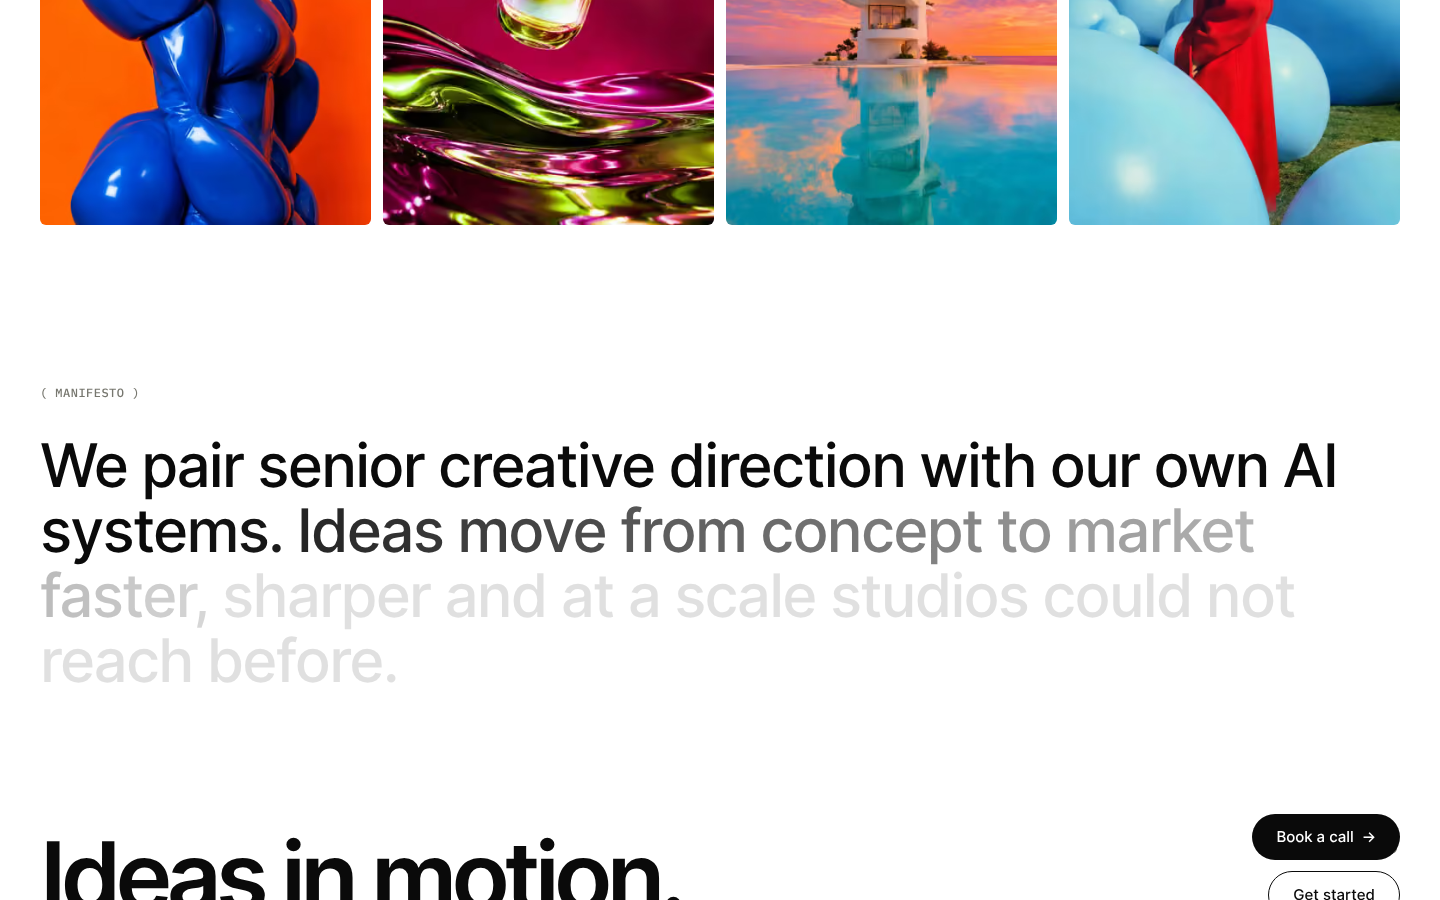
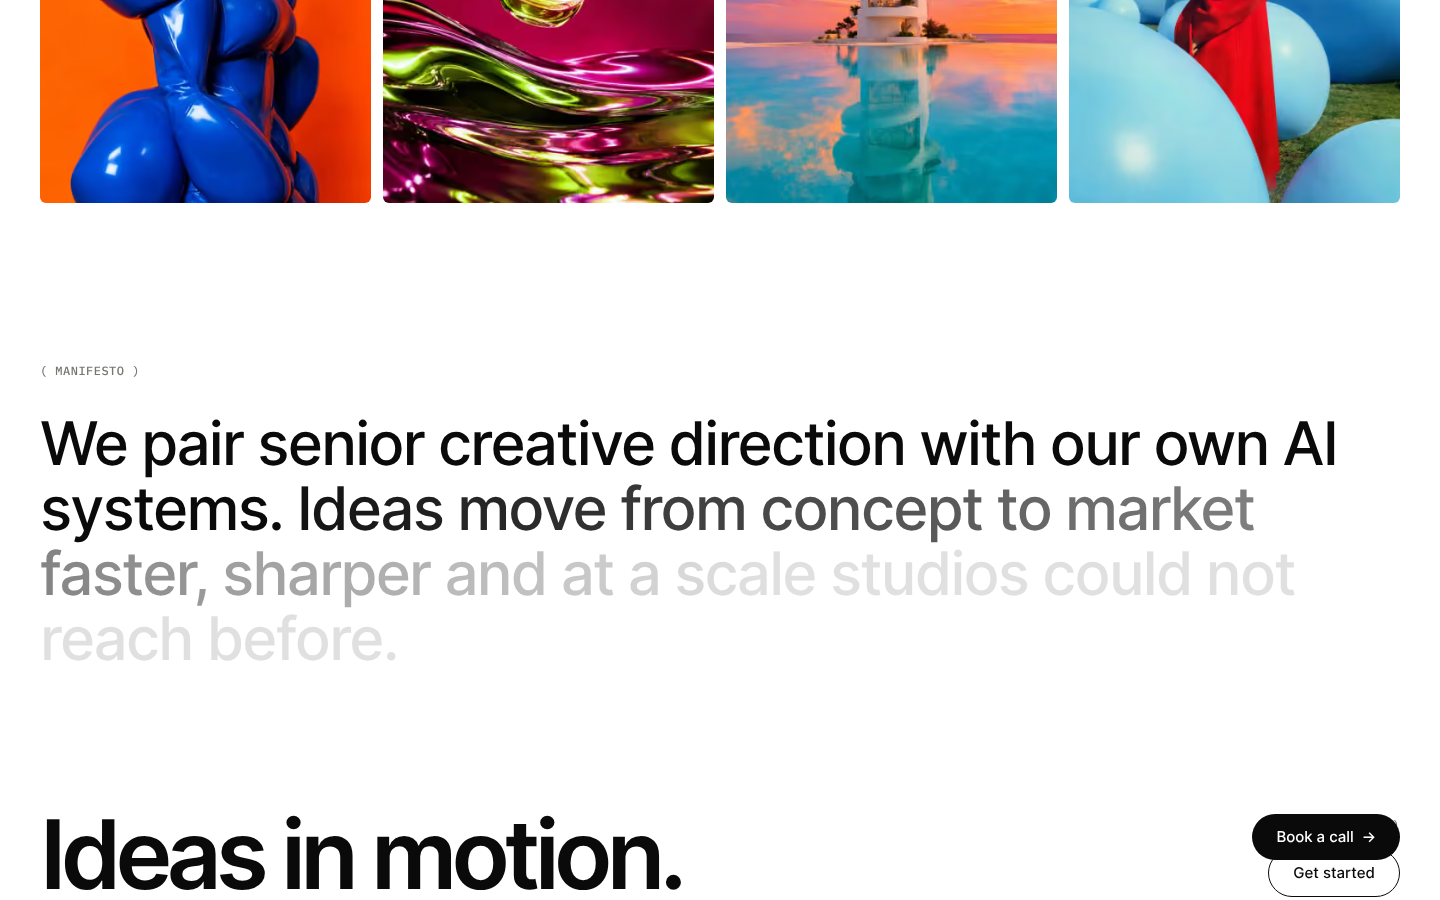
Manifesto: drop the pin; reveal over the text's full pass through the viewport, softer edge
Claude-Session: https://claude.ai/code/session_01UZWQSjEKanFo1QxbReCzzo

diff --git a/components/home/RevealText.tsx b/components/home/RevealText.tsx
@@ -20,7 +20,7 @@ type RevealTextProps = {
  * (--reveal, 0…1) on the container, and every character computes its own opacity
  * from it in CSS. Without JS, or with prefers-reduced-motion, the text is fully shown.
  */
-export function RevealText({ segments, className, fade = 48 }: RevealTextProps) {
+export function RevealText({ segments, className, fade = 64 }: RevealTextProps) {
   const ref = useRef<HTMLParagraphElement>(null);
 
   // Characters, grouped by word so words never break in the middle.
@@ -48,28 +48,18 @@ export function RevealText({ segments, className, fade = 48 }: RevealTextProps) 
     let target = 0;
     let shown = 0;
     let frame = 0;
-    // Pinned mode: the closest [data-reveal-track] is a tall section whose content is sticky;
-    // the reveal runs from when it is 40% in view until the pin releases.
-    const track = el.closest<HTMLElement>("[data-reveal-track]");
     const measure = () => {
-      const vh = window.innerHeight;
-      if (track) {
-        const r = track.getBoundingClientRect();
-        const lead = vh * 0.4;
-        const travel = lead + (r.height - vh);
-        target = Math.min(1, Math.max(0, (lead - r.top) / travel));
-        return;
-      }
       const rect = el.getBoundingClientRect();
-      // 0 when the text's top reaches 85% of the viewport,
-      // 1 when the text's bottom reaches 40% of the viewport.
-      const start = vh * 0.85;
-      const end = vh * 0.4;
+      const vh = window.innerHeight;
+      // No pin: the reveal uses the whole natural pass of the text through the viewport —
+      // 0 when its top enters at the bottom edge, 1 when its bottom reaches 30% from the top.
+      const start = vh;
+      const end = vh * 0.3;
       const travel = start - end + rect.height;
       target = Math.min(1, Math.max(0, (start - rect.top) / travel));
     };
     const tick = () => {
-      shown += (target - shown) * 0.08;
+      shown += (target - shown) * 0.06;
       if (Math.abs(target - shown) < 0.0005) shown = target;
       el.style.setProperty("--reveal", shown.toFixed(4));
       frame = shown === target ? 0 : requestAnimationFrame(tick);

diff --git a/components/home/Manifesto.tsx b/components/home/Manifesto.tsx
@@ -2,27 +2,21 @@ import { manifesto } from "@/content/home";
 import { RevealText } from "./RevealText";
 
 /**
- * Figma: Manifesto (256:68196) — px 40, gap 32, Heading/H1 Large.
- * Decisions 2026-11-16 (client, ref. outcrowd.io):
- * - whole sentence in color/text/primary (Figma has the second half grey);
- * - the block pins (sticky, centred in the viewport) while a spacer of
- *   --spacing-manifesto-track scrolls past; the text reveals over that long scroll.
- *   Centring replaces Figma's pt 160. Reduced motion → no pin, no spacer, pt 160 as Figma.
+ * Figma: Manifesto (256:68196) — pt 160, px 40, gap 32, Heading/H1 Large.
+ * Decision 2026-11-16: whole sentence in color/text/primary (Figma has the second half grey),
+ * characters reveal with scroll, soft leading edge.
  */
 export function Manifesto() {
   return (
-    <section data-reveal-track="" className="relative w-full">
-      <div className="flex w-full flex-col items-start gap-32 px-40 pt-160 motion-safe:sticky motion-safe:top-0 motion-safe:min-h-svh motion-safe:justify-center motion-safe:pt-0">
-        <p className="whitespace-nowrap text-text-secondary mono-label">{manifesto.label}</p>
-        <RevealText
-          className="w-full heading-h1-large"
-          segments={[
-            { text: manifesto.lead, className: "text-text-primary" },
-            { text: manifesto.rest, className: "text-text-primary" },
-          ]}
-        />
-      </div>
-      <div aria-hidden="true" className="hidden h-manifesto-track motion-safe:block" />
+    <section className="flex w-full flex-col items-start gap-32 px-40 pt-160">
+      <p className="whitespace-nowrap text-text-secondary mono-label">{manifesto.label}</p>
+      <RevealText
+        className="w-full heading-h1-large"
+        segments={[
+          { text: manifesto.lead, className: "text-text-primary" },
+          { text: manifesto.rest, className: "text-text-primary" },
+        ]}
+      />
     </section>
   );
 }

diff --git a/styles/layout.css b/styles/layout.css
@@ -35,6 +35,4 @@
   --spacing-section: 140px;
   /* Services row: gap between the 560 label column and the 540 copy column (256:68206) */
   --spacing-service-gap: 260px;
-  /* Manifesto pin: extra scroll while the text stays put and reveals (decision 2026-11-16). */
-  --spacing-manifesto-track: 100svh;
 }

diff --git a/docs/motion-notes.md b/docs/motion-notes.md
@@ -10,7 +10,7 @@ Source: page «Main direction» › section «2» (`256:68174`). Collected via t
 | Page | Block (Figma layer path) | Note | Figma node |
 |---|---|---|---|
 | Home (Homepage — Variant 1b (light)) | — | *No Motion note instances on this frame* | `256:68175` |
-| Home | Manifesto | **Implemented (client request 2026-11-16, not a Figma note; ref. outcrowd.io):** the block pins — sticky, centred in the viewport — while a 100svh spacer (`--spacing-manifesto-track`) scrolls past; characters reveal over that ~1260px of scroll (from 40% in view until the pin releases), soft leading edge 48 chars, eased catch-up 0.08; unrevealed text is a faint ghost (opacity 0.12) that fills to black. `components/home/Manifesto.tsx`, `RevealText.tsx`; reduced motion / no JS → no pin, full text, Figma pt 160. | `256:68196` |
+| Home | Manifesto | **Implemented (client request 2026-11-16, not a Figma note; ref. outcrowd.io):** no pin (client: no hold on the block). Characters reveal over the text's whole pass through the viewport — from its top entering at the bottom edge until its bottom reaches 30% (~900px at 1440×900); soft leading edge 64 chars; eased catch-up 0.06 so wheel steps glide; unrevealed text is a faint ghost (opacity 0.12) that fills to black. `components/home/RevealText.tsx`; reduced motion / no JS → full text. | `256:68196` |
 | Home | In numbers | **Implemented (client request 2026-11-17):** counters run from 0 to 700+ / 5.0 / 93% once when the block is 40% in view, 1.6 s ease-out; width reserved by the final value; reduced motion / no JS → final value. `components/home/CountUp.tsx` | `256:68281` |
 | All pages | Footer | **Implemented (client request 2026-11-17):** while the footer scrolls in, its fill goes white → black with the scroll; text flips black → white at the halfway point and crossfades over 700ms (`--duration-surface`), as does the floating CTA. Update: crossfade added on client request (the flip felt abrupt). `components/ds/Footer.tsx` | `260:33` |
 | Home | Services | **Implemented (client request 2026-11-16):** hovered row turns grey (`bg/surface`), its photo appears in a 220×290 frame tilted 3° (Figma «Photo U1» `307:8638`) and follows the cursor with a little extra tilt; soft synthesized tick on hover (after the first click/tap — browser audio policy). Mouse/trackpad only; reduced motion → no follow/tilt animation, no transitions. `components/home/ServicesList.tsx`, `lib/hover-sound.ts` | `256:68199` |

diff --git a/docs/ds-gaps.md b/docs/ds-gaps.md
@@ -107,4 +107,3 @@ would break the layout (column widths), the value is kept in **one** file,
     primary → inverse, secondary → tertiary at the halfway point (data-surface="dark"), crossfading over --duration-surface 700ms (motion.css; 2026-11-16 client: the flip felt abrupt). Reduced motion → light.
     Floating CTA: inverse over the dark footer; hides when the footer legal line (data-cta-avoid) reaches it,
     so «Privacy · Terms» is never covered.
-16. 2026-11-16 — Home Manifesto pinned (client: reveal too fast; ref. outcrowd.io). Section = sticky block (min-height 100svh, content centred, replaces Figma pt 160) + spacer --spacing-manifesto-track 100svh (styles/layout.css). Adds ~900px of scroll at 1440. Reduced motion → Figma layout.
